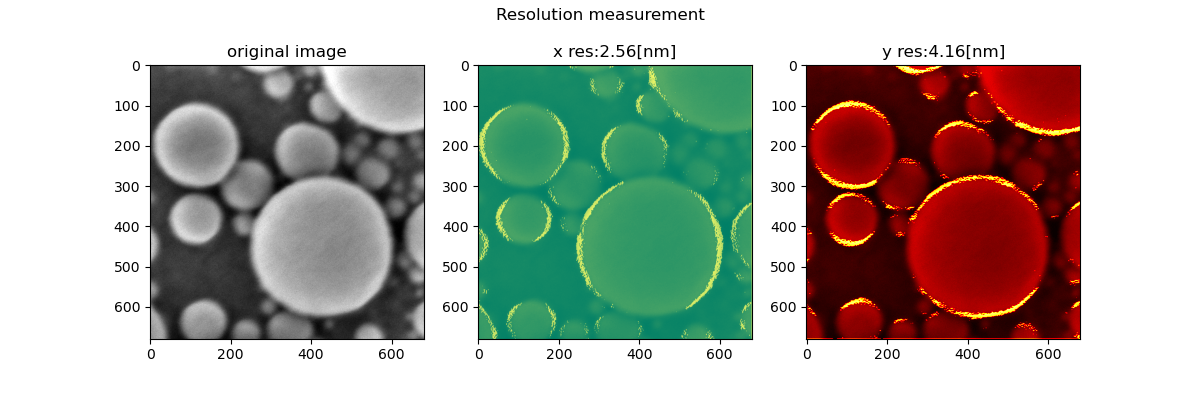
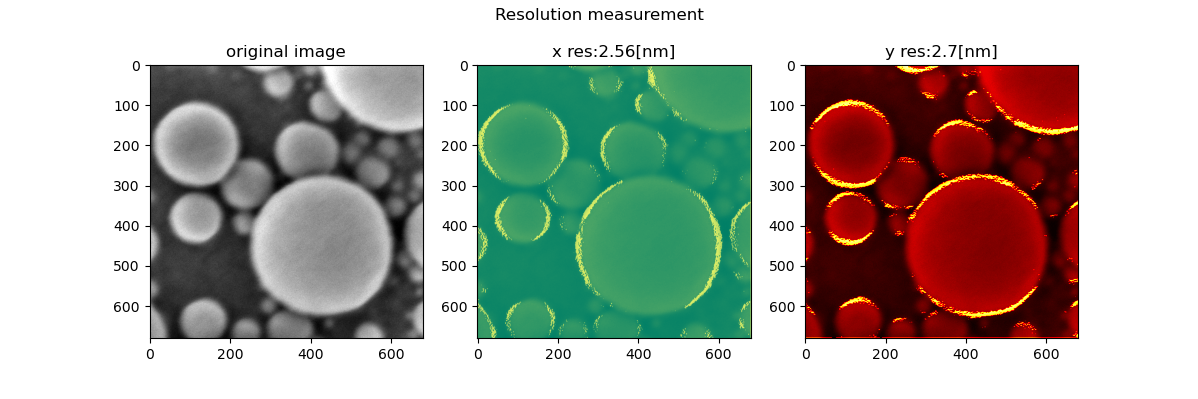
Resolution X/Y calc + result image fixed asymmetric frame size

diff --git a/Resolution_measurment.py b/Resolution_measurment.py
@@ -51,7 +51,7 @@ def res_calc(img, axis ):
     return resolution_estimation, b
 
 normal_k=1.5
-FOV = 4000
+FOV = 250
 gauss_size = 3
 BuiltGauss = True
 width = 0
@@ -59,7 +59,7 @@ width = 0
 
 
 path = './res'
-file = 'Billes_Tin_013.jpg'
+file = 'res2.png'
 fullpath = os.path.join(path,file)
 img = cv2.imread(fullpath,0)
 
